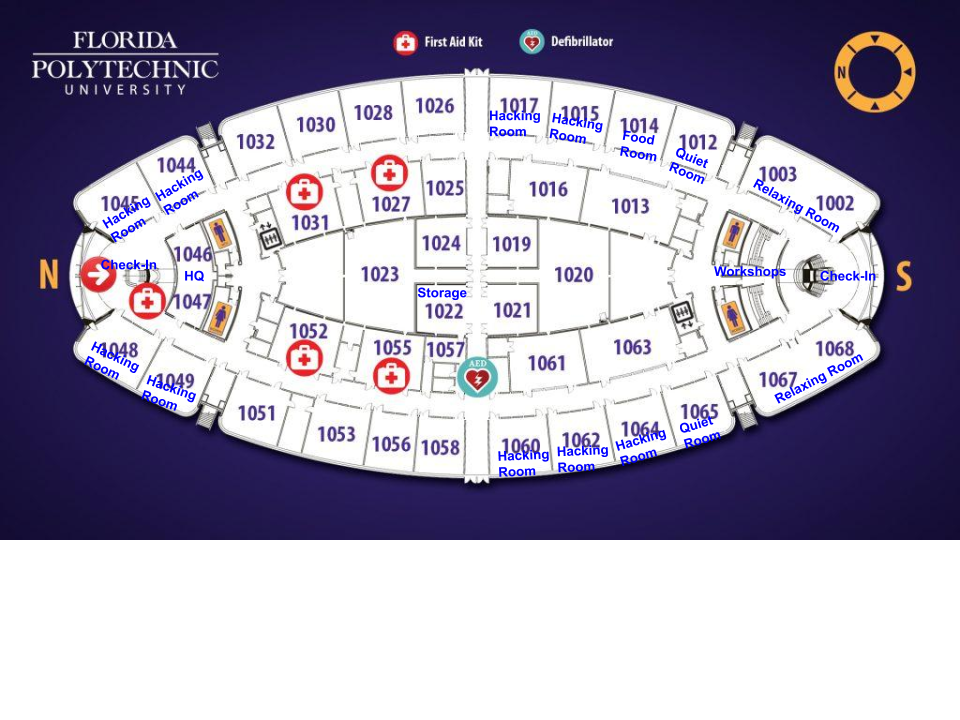
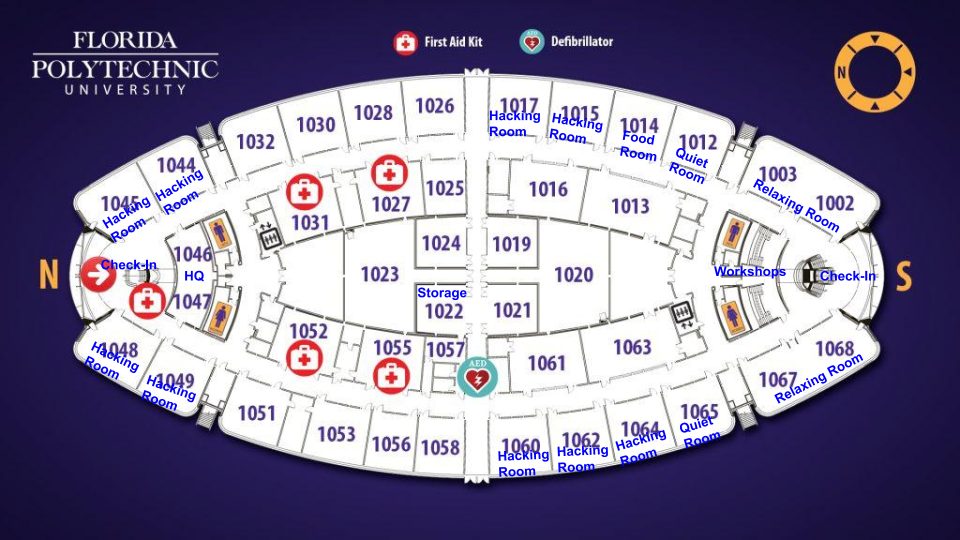
Replaced perspective depth with border depth

diff --git a/public/css/style.css b/public/css/style.css
@@ -7,14 +7,15 @@
 
 /*========== Sections ==========*/
 .content-section {
-  margin: 0;
-  /*margin-top: 30px;*/
+  /*margin: 0;
+  margin-top: 30px;*/
 }
 
 /*---------- Header ----------*/
 .header {
+  margin: 0;
   text-align: center;
-  padding: 20px 10px 0 10px;
+  padding: 20px 20px 0 20px;
   background-color: #fdfffc;
   /*border-radius: 0 0 20px 20px;*/
   color: black;
@@ -54,18 +55,13 @@
   /*border: 3px solid #dc3545;*/
 }
 
-.perspective-1 {
-  height: 50px;
-  width: 100%;
-  background-color: #cecece;
-}
-
 /*---------- Content ----------*/
 .content {
   /*background-color: #e5e5e5;*/
   margin-right: auto;
   margin-left: auto;
   z-index: -1;
+  width: 100%;
 }
 
 .media {
@@ -88,6 +84,11 @@
   padding: 10px;
   width: 100%;
   height: 100%;
+}
+
+.media-links div a:hover {
+  text-decoration: none;
+  color: #8f40bf;
 }
 
 .row-eq-height{
@@ -145,7 +146,8 @@
 
 .schedule-tabs {
   width: 100%;
-  background-color: #cecece;
+  background-color: white;
+  padding-bottom: 30px;
 }
 
 .nav-tabs {
@@ -220,25 +222,19 @@
 .event-header {
   display: flex;
   justify-content: space-between;
-}/*
-
-.schedule {
-  margin-right: 16px;
-}*/
+}
 
 /*---------- Announcements ----------*/
 .announcements {
   max-height: 300px;
   height: 100%;
   width: 100%;
-  display: inline-block;
-  padding: 10px;
+  padding: 10px 10px 10px 0;
 }
 
 .announcements div {
   height: 100%;
   width: 100%;
-  display: inline-block;
   padding: 10px;
 }
 
@@ -254,89 +250,21 @@
 
 /*---------- Maps ----------*/
 .maps {
-  background-color: white;
-  padding: 40px;
-  /*border-radius: 20px 20px 0 0;*/
+}
+
+.map1 img, .map2 img {
   width: 100%;
 }
 
-.map {
-  width: 100%;
+.map1 {
+  background-color: #120c30;
+}
+
+.map2 {
+  background-color: white;
 }
 
 /*---------- Footer ----------*/
 .footer {
   
 }
-
-/*---------- Effects ----------*/
-.Blink {
-  animation: blinker 1.5s cubic-bezier(0.5, 0, 1, 1) infinite alternate;
-  padding-bottom: 10px;
-}
-@keyframes blinker {
-  from {
-    opacity: 1;
-  }
-  to {
-    opacity: 0;
-  }
-}
-
-.inner-shadow {
-  -moz-box-shadow:    inset 0 0 10px #000000;
-  -webkit-box-shadow: inset 0 0 10px #000000;
-  box-shadow:         inset 0 0 10px #000000;
-}
-
-
-
-
-
-
-
-
-/*---------- Meals ----------*//*
-.schedule .days {
-  display: flex;
-}
-
-.schedule h2 {
-  margin-bottom: 16px;
-}
-
-.schedule .day {
-  -webkit-box-flex: 1;
-  -ms-flex: 1 1 100%;
-  flex: 1 1 100%;
-}
-
-.schedule .day h3 {
-  font-size: 1.25em;
-}
-
-.schedule .day .times li {
-  display: -webkit-box;
-  display: -ms-flexbox;
-  display: flex;
-  margin-bottom: 12px;
-}
-
-.schedule .day .times .time {
-  font-weight: bold;
-  display: inline-block;
-  margin-right: 20px;
-  -webkit-box-flex: 0;
-  -ms-flex: 0 0 30%;
-  flex: 0 0 30%;
-}
-
-.schedule .day .times {
-  padding: 0;
-  margin: 0;
-  list-style: none;
-  font-size: 0.9em;
-  line-height: 1.4em;
-}*/
-
-/*---------- end Meals ----------*/

diff --git a/src/Components/Schedule.js b/src/Components/Schedule.js
@@ -102,23 +102,25 @@ export default class Schedule extends React.Component {
     const activities = schedule.filter(this.tagFilter("activity"));
 
     return (
-      <Tabs defaultActiveKey="all-events" id="uncontrolled-tab-example">
-        <Tab eventKey="all-events" title="All Events">
-          {this.renderTab2(schedule)}
-        </Tab>
-        <Tab eventKey="logistics" title="Logistics">
-          {this.renderTab2(logistics)}
-        </Tab>
-        <Tab eventKey="meals" title="Meals">
-          {this.renderTab2(meals)}
-        </Tab>
-        <Tab eventKey="workshops" title="Workshops">
-          {this.renderTab2(workshops)}
-        </Tab>
-        <Tab eventKey="activities" title="Activities">
-          {this.renderTab2(activities)}
-        </Tab>
-      </Tabs>
+      <div className="schedule-tabs">
+        <Tabs defaultActiveKey="all-events" id="uncontrolled-tab-example">
+          <Tab eventKey="all-events" title="All Events">
+            {this.renderTab2(schedule)}
+          </Tab>
+          <Tab eventKey="logistics" title="Logistics">
+            {this.renderTab2(logistics)}
+          </Tab>
+          <Tab eventKey="meals" title="Meals">
+            {this.renderTab2(meals)}
+          </Tab>
+          <Tab eventKey="workshops" title="Workshops">
+            {this.renderTab2(workshops)}
+          </Tab>
+          <Tab eventKey="activities" title="Activities">
+            {this.renderTab2(activities)}
+          </Tab>
+        </Tabs>
+      </div>
     );
   }
 }

diff --git a/public/css/media.css b/public/css/media.css
@@ -18,10 +18,9 @@
       font-size: 64px;
     }
 
-    .perspective-1 {
-      margin-top: -1px;
-      margin-bottom: -2px;
-      transform: perspective(300px) rotateX(-19deg);
+    .content {
+      border: 50px solid transparent;
+      border-top-color: #cecece;
     }
 }
 
@@ -44,32 +43,29 @@
       font-size: 48px;
     }
 
-    .perspective-1 {
-      margin-top: -2px;
-      margin-bottom: -3px;
-      transform: perspective(300px) rotateX(-22.5deg);
+    .content {
+      border: 40px solid transparent;
+      border-top-color: #cecece;
     }
   }
   
   /*---------- Medium (md) ----------*/
   @media (max-width: 992px) {
-    .perspective-1 {
-      margin-top: -3px;
-      margin-bottom: -5px;
-      transform: perspective(300px) rotateX(-31deg);
+    .content {
+      border: 30px solid transparent;
+      border-top-color: #cecece;
     }
   }
   
   /*---------- Small (sm) ----------*/
   @media (max-width: 768px) {
-    .perspective-1 {
-      margin-top: -6px;
-      margin-bottom: -8px;
-      transform: perspective(300px) rotateX(-43deg);
+    .content {
+      border: 25px solid transparent;
+      border-top-color: #cecece;
     }
   }
   
-  /*---------- Small (sm) ----------*/
+  /*---------- Extra Small ----------*/
   @media (max-width: 576px) {
     .header .title {
       height: 36px;
@@ -96,4 +92,11 @@
   }
 
 @media (max-width: 428px) {
+  #root {
+    width: 428px;
+  }
+}
+
+@media (min-width: 428px) {
+
 }

diff --git a/src/Components/Media.js b/src/Components/Media.js
@@ -6,7 +6,7 @@ import { FaWifi, FaDiscord, FaUpload, FaImages } from 'react-icons/fa';
 export default class Media extends React.Component {
   render() {
     return (
-      <React.Fragment>
+      <div className="media">
         <div className="media-info col-6">
 
           <div className="row">
@@ -15,7 +15,8 @@ export default class Media extends React.Component {
                 <a href="https://phoenixhacks.com/discord" className="link" target="_blank" rel="noopener noreferrer">
                   <span><FaDiscord size={23}/> Discord</span></a><br/>
                 <a href="https://phoenixhacks2020.devpost.com" className="link" target="_blank" rel="noopener noreferrer">
-                  <span><FaUpload size={23}/> DevPost</span></a><br/>
+                  {/*<span><FaUpload size={23}/> DevPost</span></a><br/>*/}
+                  <span><img style={{height: "23px", marginRight: "-3px"}} src={require("../images/devpost-icon3.png")}/> DevPost</span></a><br/>
                 <a href="https://phoenixhacks.com/media" className="link" target="_blank" rel="noopener noreferrer">
                   <span><FaImages size={23}/> Media</span></a>
               </div>
@@ -38,7 +39,7 @@ export default class Media extends React.Component {
         <div className="announcements col-6">
           <Announcements />
         </div>
-      </React.Fragment>
+      </div>
     );
   }
 }

diff --git a/src/App.js b/src/App.js
@@ -20,22 +20,11 @@ class App extends React.Component {
           <div className="header row justify-content-center">
             <Header />
           </div>
-          <div className="perspective-1"></div>
       
           <div className="content">
-            <div className="col align-self-center">
-              <div className="content-section media">
-                <Media />
-              </div>
-
-              <div className="content-section schedule-tabs">
-                <Schedule />
-              </div>
-
-              <div className="content-section">
-                <Maps />
-              </div>
-            </div>
+            <Media />
+            <Schedule />
+            <Maps />
           </div>
         </div>
       </React.Fragment>

diff --git a/src/Components/Maps.js b/src/Components/Maps.js
@@ -4,14 +4,12 @@ export default class Maps extends React.Component {
   render() {
     return (
       <div className="maps">
-        <h2>
-          <strong>Maps</strong>
-        </h2>
-        <div>
-          <img className="map" alt="IST Map" src={require("../images/IST.png")} />
-          <img className="map" alt="Campus Map" src={require("../images/Campus.jpg")} />
+        <div className="map1">
+          <img alt="IST Map" src={require("../images/IST.png")} />
         </div>
-        <br />
+        <div className="map2">
+          <img alt="Campus Map" src={require("../images/Campus.jpg")} />
+        </div>
       </div>
     );
   }

diff --git a/public/css/effects.css b/public/css/effects.css
@@ -1,0 +1,19 @@
+/*---------- Effects ----------*/
+.Blink {
+    animation: blinker 1.5s cubic-bezier(0.5, 0, 1, 1) infinite alternate;
+    padding-bottom: 10px;
+  }
+  @keyframes blinker {
+    from {
+      opacity: 1;
+    }
+    to {
+      opacity: 0;
+    }
+  }
+  
+  .inner-shadow {
+    -moz-box-shadow:    inset 0 0 10px #000000;
+    -webkit-box-shadow: inset 0 0 10px #000000;
+    box-shadow:         inset 0 0 10px #000000;
+  }
